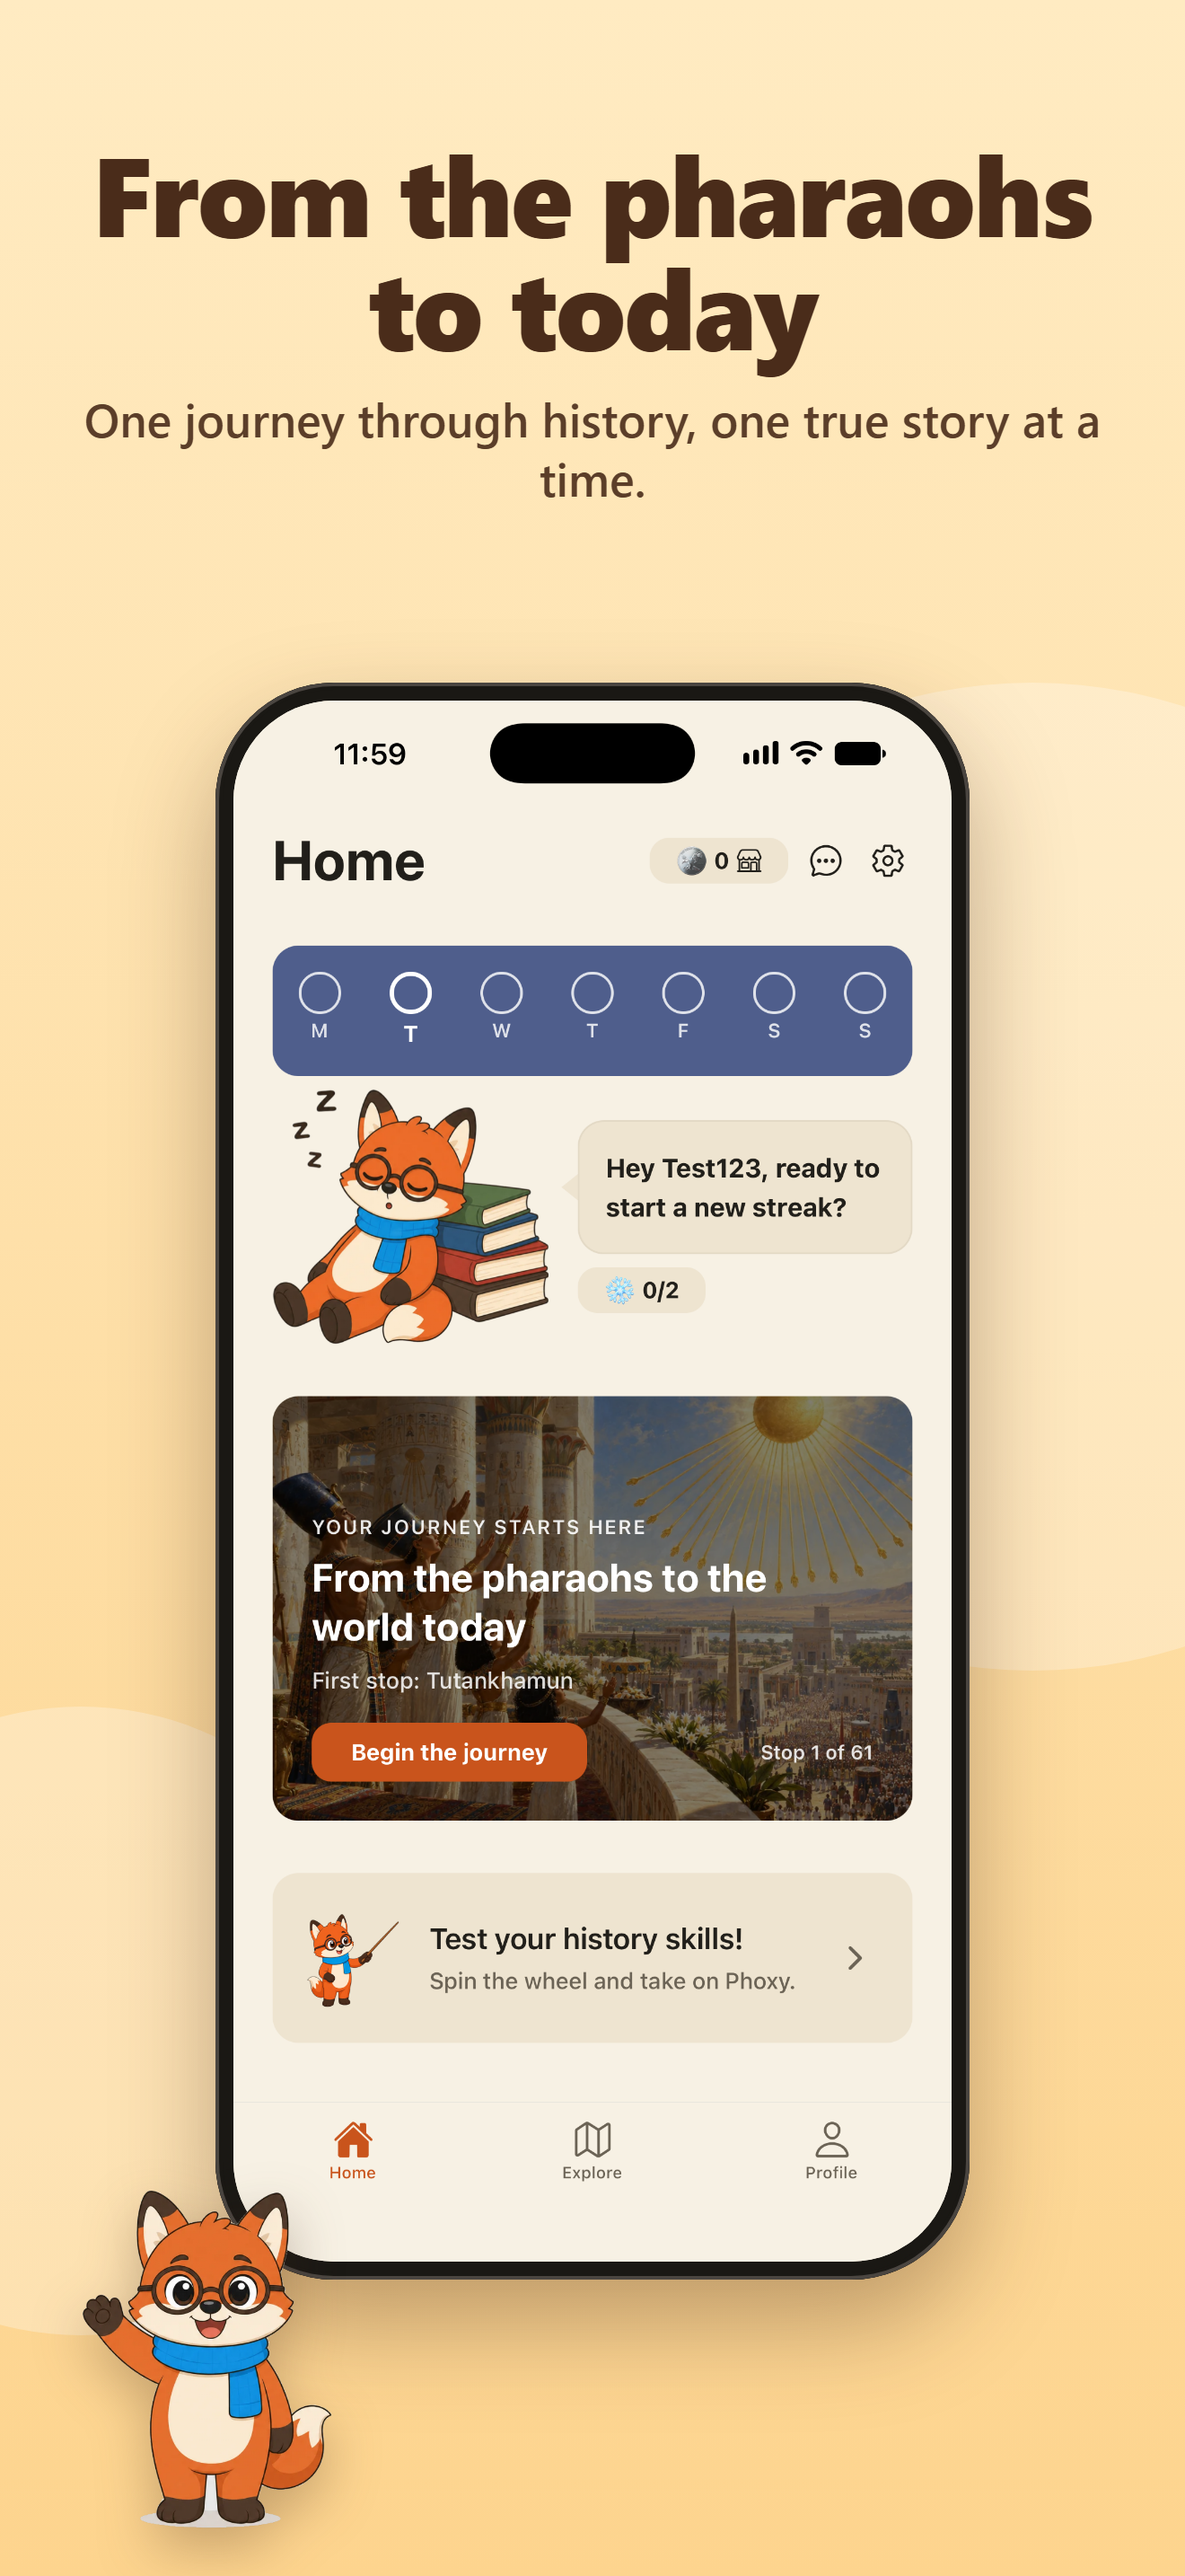
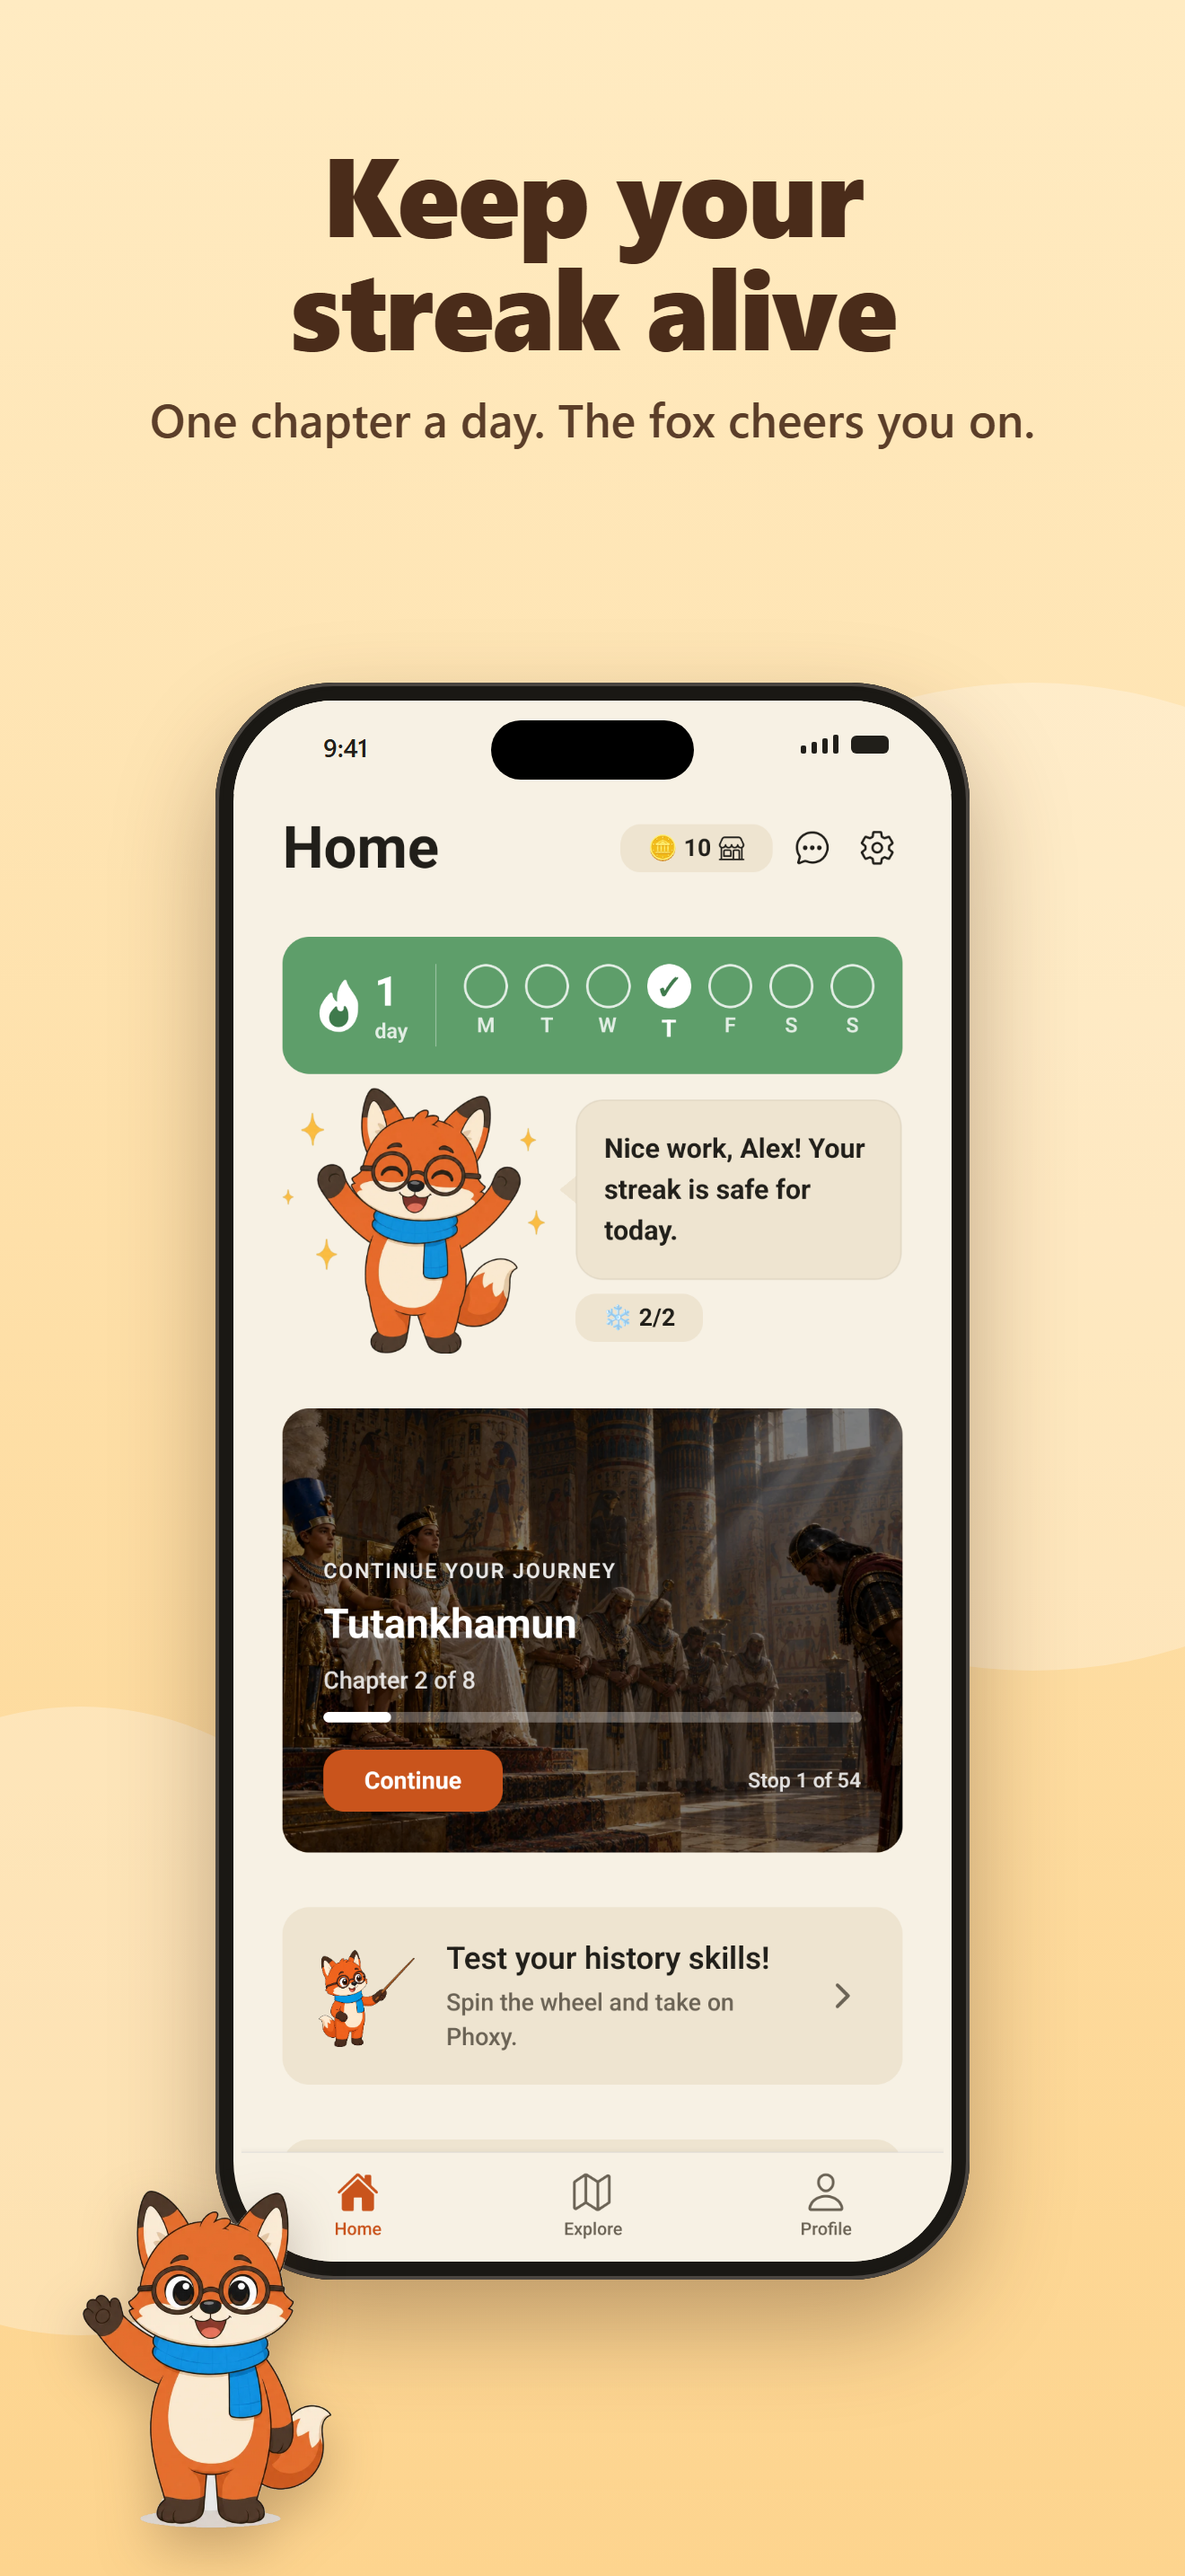
iOS screenshots: streak slide from the Android capture, 6.3-inch output
Slide 1 uses the Android Home capture (a reader with a running streak)
under an iOS status bar instead of the fresh Test123 account. The script
also writes 1206x2622 copies, the size App Store Connect's Dynamic Island
slot accepts.

diff --git a/store/screenshots-ios.html b/store/screenshots-ios.html
@@ -75,7 +75,22 @@
     overflow: hidden;
     background: #F7F1E4;
   }
+  .scherm { position: relative; }
   .scherm img { display: block; width: 100%; height: auto; }
+  /* Een Android-capture (store/screenshots-bron/, 1080×2400) is relatief hoger dan het iPhone-scherm:
+     op schermhoogte geschaald, gecentreerd, en de Android-statusbalk afgedekt door een iOS-balk
+     met Dynamic Island. Alleen voor schermen waar we geen goede iOS-capture van hebben. */
+  .scherm.android { display: flex; justify-content: center; }
+  .scherm.android img { width: auto; height: 100%; }
+  .ios-status {
+    position: absolute; left: 0; right: 0; top: 0; height: 104px;
+    background: #F7F1E4; color: #211F1A;
+    font: 600 28px/1 -apple-system, 'Segoe UI', Arial, sans-serif;
+  }
+  .ios-status .tijd { position: absolute; left: 100px; top: 38px; }
+  .ios-status .eiland { position: absolute; left: 50%; top: 22px; width: 226px; height: 66px; margin-left: -113px; border-radius: 33px; background: #000; }
+  .ios-status .rechts { position: absolute; right: 70px; top: 38px; display: flex; gap: 6px; align-items: flex-end; }
+  .ios-status i { display: block; background: currentColor; border-radius: 2px; }
 
   .vos {
     position: absolute;
@@ -96,9 +111,11 @@
 <script>
   const DIAS = [
     {
-      kop: 'From the pharaohs<br>to today',
-      sub: 'One journey through history, one true story at a time.',
-      scherm: '02-home.png', vos: 'zwaaiend.png', kant: 'links',
+      // Dia 5 van de Play-set: de Android-capture met een echte naam en een lopende streak, in
+      // plaats van de iOS-capture van een vers testaccount ("Test123", alles op nul).
+      kop: 'Keep your<br>streak alive',
+      sub: 'One chapter a day. The fox cheers you on.',
+      android: 'home-1.5.png', vos: 'zwaaiend.png', kant: 'links',
     },
     {
       kop: 'Every era,<br>its own route',
@@ -132,7 +149,17 @@
   const d = DIAS[n - 1];
   document.getElementById('dia').innerHTML = `
     <div class="kop"><h1>${d.kop}</h1><p>${d.sub}</p></div>
-    <div class="telefoon"><div class="scherm"><img src="screenshots-ios/${d.scherm}" alt=""></div></div>
+    <div class="telefoon">${d.android ? `
+      <div class="scherm android">
+        <img src="screenshots-bron/${d.android}" alt="">
+        <div class="ios-status">
+          <span class="tijd">9:41</span><span class="eiland"></span>
+          <span class="rechts">
+            <i style="width:6px;height:9px"></i><i style="width:6px;height:13px"></i><i style="width:6px;height:17px"></i><i style="width:6px;height:21px"></i>
+            <i style="width:42px;height:20px;border-radius:6px;margin-left:8px"></i>
+          </span>
+        </div>
+      </div>` : `<div class="scherm"><img src="screenshots-ios/${d.scherm}" alt=""></div>`}</div>
     <img class="vos ${d.kant}${d.spiegel ? ' gespiegeld' : ''}" src="../assets/images/vos/${d.vos}" alt="">
   `;
 </script>
